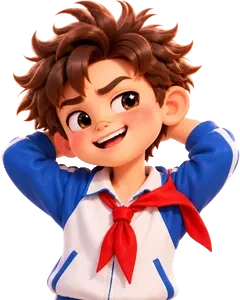
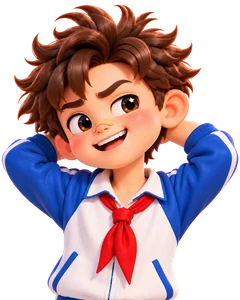
皮皮主图换成新图

diff --git a/docs/index.html b/docs/index.html
@@ -9,17 +9,17 @@
   <meta name="apple-mobile-web-app-status-bar-style" content="default" />
   <meta name="apple-mobile-web-app-title" content="买烤肠" />
   <title>校门口烤肠摊</title>
-  <link rel="stylesheet" href="./assets/style.css?v=261022165044" />
+  <link rel="stylesheet" href="./assets/style.css?v=261022165415" />
 </head>
 <body>
   <div id="app" class="scene">
     <div class="sc-stage" id="stage">
-      <img class="sc-bg" alt="" src="./assets/img/scene/bg_long.webp?v=261022165044" />
+      <img class="sc-bg" alt="" src="./assets/img/scene/bg_long.webp?v=261022165415" />
       <header class="hud" id="hud"></header>
       <div class="queue" id="queue"></div>
-      <div class="sc-qr"><img alt="" src="./assets/img/scene/qr.webp?v=261022165044" /><div class="speaker" id="speaker"><div class="h">收款音箱</div><div class="e idle">等待收款…</div></div></div>
+      <div class="sc-qr"><img alt="" src="./assets/img/scene/qr.webp?v=261022165415" /><div class="speaker" id="speaker"><div class="h">收款音箱</div><div class="e idle">等待收款…</div></div></div>
       <section class="grill" id="grill">
-        <img class="g-body" id="gbody" alt="" src="./assets/img/scene/grill_off.webp?v=261022165044" />
+        <img class="g-body" id="gbody" alt="" src="./assets/img/scene/grill_off.webp?v=261022165415" />
         <div class="slots" id="slots"></div>
         <span id="grillInfo"></span><span id="fireCtl"></span>
       </section>
@@ -32,6 +32,6 @@
     </div>
   </div>
   <div class="overlay" id="overlay" hidden></div>
-  <script src="./assets/main.js?v=261022165044"></script>
+  <script src="./assets/main.js?v=261022165415"></script>
 </body>
 </html>
